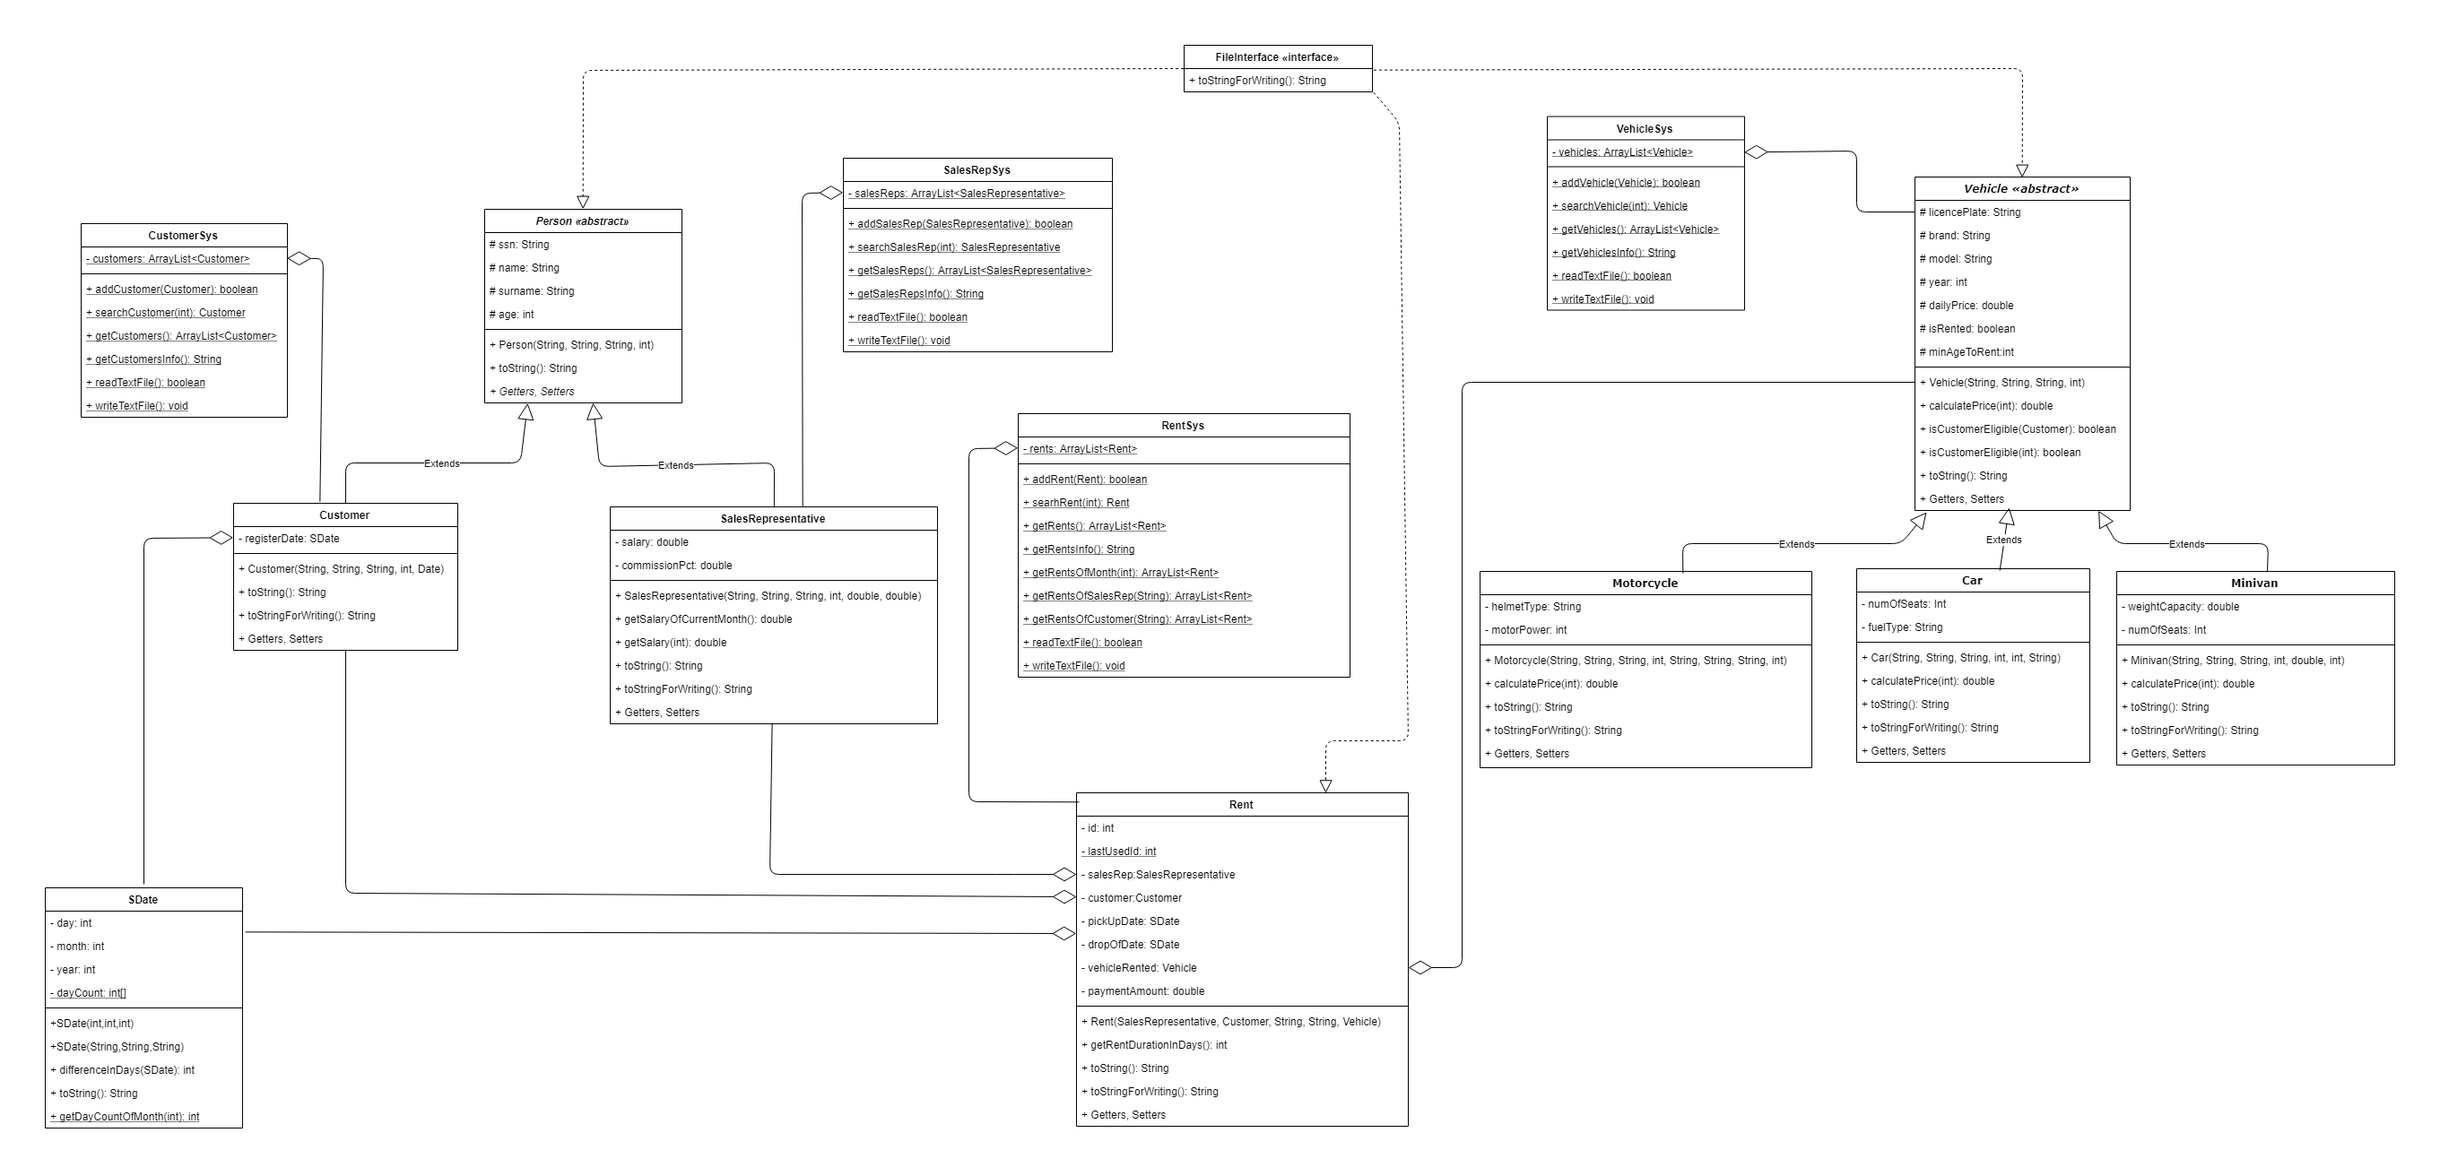
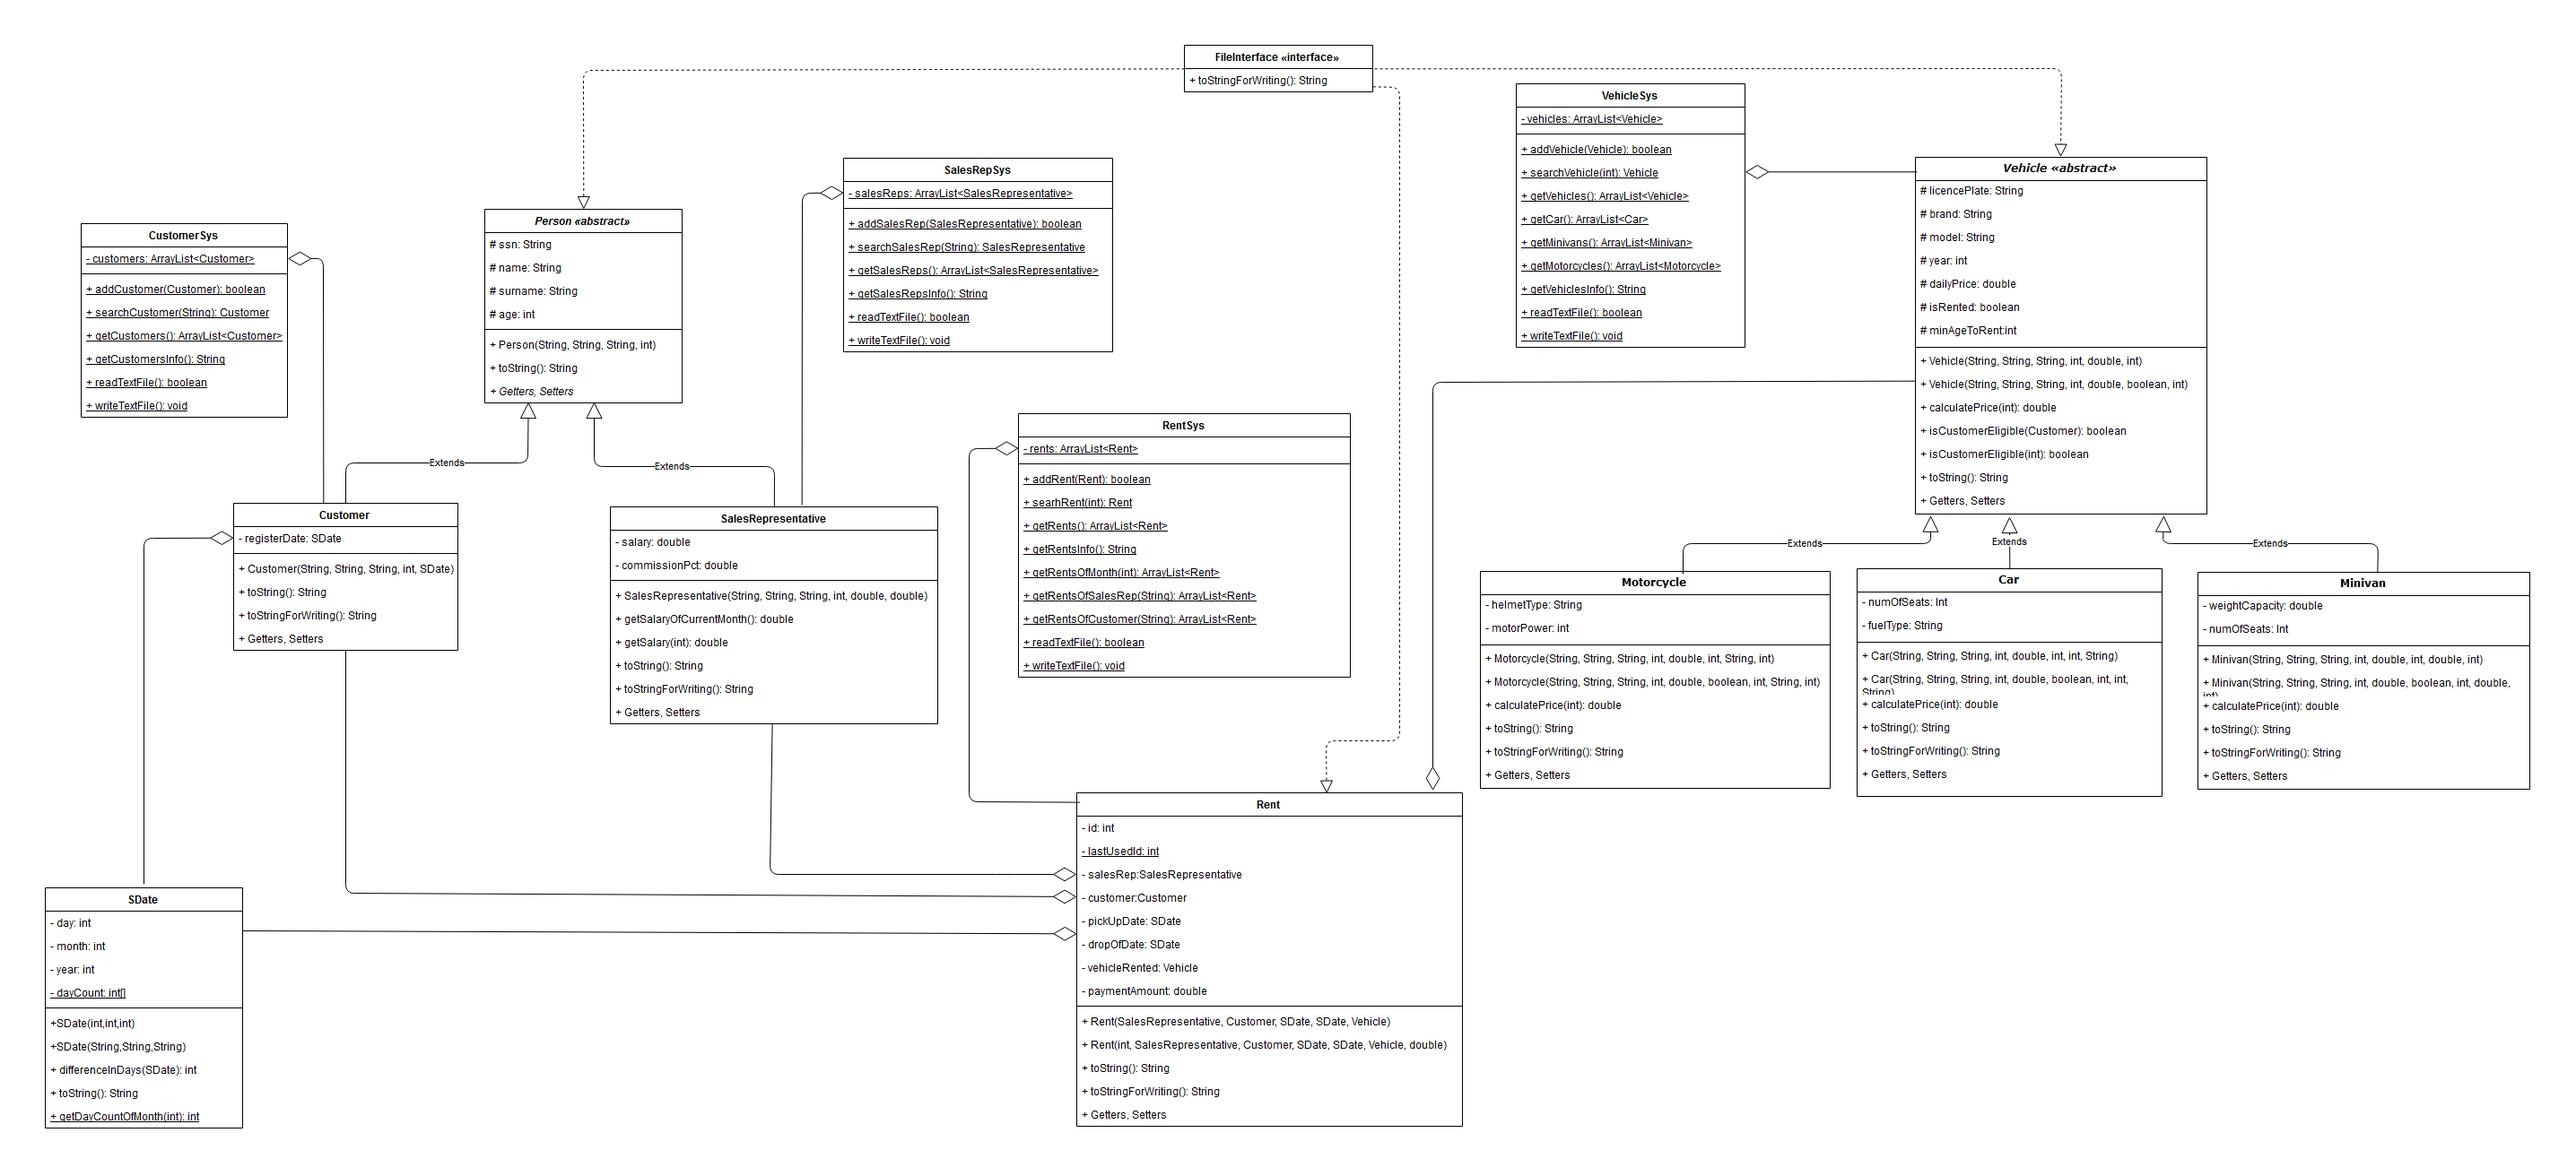
Organized Outputs + Updated Diagram
+ Minor refactorings.
+ Testing.

diff --git a/src/Rent.java b/src/Rent.java
@@ -14,7 +14,7 @@ public class Rent implements FileInterface{
     private SalesRepresentative salesRep;
     private Customer customer;
     private SDate pickUpDate,
-            dropOfDate;
+            dropOffDate;
     private Vehicle vehicleRented;
     private double paymentAmount;
 
@@ -23,24 +23,24 @@ public class Rent implements FileInterface{
         this.salesRep = salesRep;
         this.customer = customer;
         this.pickUpDate = pickUpDate;
-        this.dropOfDate = dropOfDate;
+        this.dropOffDate = dropOfDate;
         this.vehicleRented = vehicleRented;
         this.paymentAmount = vehicleRented.calculatePrice(getRentDurationInDays());
     }
     
-    public Rent(int id, SalesRepresentative salesRep, Customer customer, SDate pickUpDate, SDate dropOfDate, Vehicle vehicleRented, double paymentAmount) {
+    public Rent(int id, SalesRepresentative salesRep, Customer customer, SDate pickUpDate, SDate dropOffDate, Vehicle vehicleRented, double paymentAmount) {
         this.id = id;
         this.salesRep = salesRep;
         this.customer = customer;
         this.pickUpDate = pickUpDate;
-        this.dropOfDate = dropOfDate;
+        this.dropOffDate = dropOffDate;
         this.vehicleRented = vehicleRented;
         this.paymentAmount = paymentAmount;
     }
     
     public int getRentDurationInDays() 
     {
-        return dropOfDate.differenceInDays(pickUpDate);
+        return dropOffDate.differenceInDays(pickUpDate);
     }
 
     public int getId() {
@@ -60,7 +60,7 @@ public class Rent implements FileInterface{
     }
 
     public SDate getDropOfDate() {
-        return dropOfDate;
+        return dropOffDate;
     }
 
     public Vehicle getVehicleRented() {
@@ -73,10 +73,10 @@ public class Rent implements FileInterface{
 
     @Override
     public String toString() {
-        return "Rent{" + "id=" + id + ", salesRep=" + salesRep + ", customer=" + customer + ", pickUpDate=" + pickUpDate + ", dropOfDate=" + dropOfDate + ", vehicleRented=" + vehicleRented + ", paymentAmount=" + paymentAmount + '}';
+        return "\n|---- RENT " + id + " ----|\nRent ID: " + id + "\nPick-up Date: " + pickUpDate + "\nDrop-off Date: " + dropOffDate + "\nPayment Amount: " + paymentAmount + " TL\n" + salesRep + customer + vehicleRented + "\n";
     }
     public String toStringForWriting()
     {
-        return id+","+salesRep.getSsn()+","+customer.getSsn()+","+pickUpDate.toString()+","+dropOfDate.toString()+","+vehicleRented.getLicencePlate()+","+paymentAmount;
+        return id+","+salesRep.getSsn()+","+customer.getSsn()+","+pickUpDate.toString()+","+dropOffDate.toString()+","+vehicleRented.getLicencePlate()+","+paymentAmount;
     }
 }

diff --git a/src/deneme.java b/src/deneme.java
@@ -14,12 +14,30 @@ public class deneme {
      * @param args the command line arguments
      */
     public static void main(String[] args) {
-        if(VehicleSys.readTextFile())
-            System.out.println("MUAZZAM");
+        if (VehicleSys.readTextFile()) {
+            System.out.println("MUaZZaM");
+        }
         
-        System.out.println(VehicleSys.getVehiclesInfo());        
-        VehicleSys.addVehicle(new Car("34 AK 354","Mini","CooperS",2013,75,false,18,4,"Gas"));
+        Car car = new Car("34 BEG 615", "Mini", "CooperS", 2013, 75, false, 18, 4, "Gas");
+/*
+        System.out.println(VehicleSys.getVehiclesInfo());
+        VehicleSys.addVehicle(car);
         VehicleSys.writeTextFile();
+  */      
+        SDate registerDate = new SDate("07", "07", "2007");
+        SDate pickUpDate = new SDate("07", "05", "2017");
+        SDate dropOffDate = new SDate("08", "06", "2018");
+        SalesRepresentative salesGuy = new SalesRepresentative("354", "Bersin", "Karaisik", 5, 1500, 0.3);
+        Customer custGuy = new Customer("5", "Sinber", "Isikkara", 16, registerDate);
+        RentSys.addRent(new Rent(105, salesGuy, custGuy, pickUpDate, dropOffDate, car, 1500));
+        
+        SDate registerDate2 = new SDate("07", "07", "2007");
+        SDate pickUpDate2 = new SDate("07", "05", "2017");
+        SDate dropOffDate2 = new SDate("08", "06", "2018");
+        SalesRepresentative salesGuy2 = new SalesRepresentative("354", "Bersin", "Karaisik", 5, 1500, 0.3);
+        Customer custGuy2 = new Customer("5", "Sinber", "Isikkara", 16, registerDate);
+        RentSys.addRent(new Rent(106, salesGuy2, custGuy2, pickUpDate2, dropOffDate2, car, 1500));
+        System.out.println(RentSys.getRents().toString());
     }
-    
+
 }

diff --git a/src/Vehicle.java b/src/Vehicle.java
@@ -69,7 +69,7 @@ public abstract class Vehicle implements FileInterface{
         return dailyPrice;
     }
 
-    public boolean isIsRented() {
+    public boolean isRented() {
         return isRented;
     }
 
@@ -96,7 +96,7 @@ public abstract class Vehicle implements FileInterface{
     @Override
     public String toString() {
         return "Licence Plate: " + licencePlate + "\nModel: " + model + "\nYear: " + year
-                + "\nDaily Price: " + dailyPrice + "\nisRented" + isRented
+                + "\nDaily Price: " + dailyPrice + "\nIs Rented: " + isRented
                 + "\nMinimum age to rent: " + minAgeToRent + "\n";
     }
 }

diff --git a/src/SalesRepresentative.java b/src/SalesRepresentative.java
@@ -58,7 +58,7 @@ public class SalesRepresentative extends Person{
 
     @Override
     public String toString() {
-        return super.toString() + "SalesRepresentative{" + "baseSalary=" + baseSalary + ", commisionPercentage=" + commisionPercentage + '}';
+        return "\n--Sales Representative--\n" + super.toString() + "\nBase Salary: " + baseSalary + "\nCommision Percentage: " + commisionPercentage + "\n";
     }
     public String toStringForWriting()
     {

diff --git a/src/Minivan.java b/src/Minivan.java
@@ -52,7 +52,7 @@ public class Minivan extends Vehicle{
 
     @Override
     public String toString() {
-        return "--Minivan--\n" + super.toString() + "# of seats: " + numOfSeats + "\nWeight capacity: " + weightCapacity + "\n";
+        return "\n--Minivan--\n" + super.toString() + "# of seats: " + numOfSeats + "\nWeight capacity: " + weightCapacity + "\n";
     }
     public String toStringForWriting()
     {

diff --git a/src/Motorcycle.java b/src/Motorcycle.java
@@ -53,7 +53,7 @@ public class Motorcycle extends Vehicle{
 
     @Override
     public String toString() {
-        return "--Motorcycle--\n" + super.toString() + "Helmet type: " + helmetType + "\nMotor power: " + motorPower + "\n";
+        return "\n--Motorcycle--\n" + super.toString() + "Helmet type: " + helmetType + "\nMotor power: " + motorPower + "\n";
     }
     
     public String toStringForWriting()

diff --git a/src/Car.java b/src/Car.java
@@ -52,7 +52,7 @@ public class Car extends Vehicle{
 
     @Override
     public String toString() {
-        return "--Car--\n" + super.toString() + "# of seats: " + numOfSeats + "\nFuel type: " + fuelType + "\n";
+        return "\n--Car--\n" + super.toString() + "# of seats: " + numOfSeats + "\nFuel type: " + fuelType + "\n";
     }
     public String toStringForWriting()
     {

diff --git a/src/Person.java b/src/Person.java
@@ -55,7 +55,7 @@ public abstract class Person implements FileInterface{
 
     @Override
     public String toString() {
-        return "Person{" + "ssn=" + ssn + ", name=" + name + ", surname=" + surname + ", age=" + age + '}';
+        return "SSN: " + ssn + "\nName: " + name + "\nSurname: " + surname + "\nAge: " + age;
     }
     
     

diff --git a/src/Customer.java b/src/Customer.java
@@ -27,7 +27,7 @@ public class Customer extends Person{
 
     @Override
     public String toString() {
-        return super.toString() + "Customer{" + "registerDate=" + registerDate + '}';
+        return "\n--Customer--\n" + super.toString() + "\nRegister Date: " + registerDate + "\n";
     }
     
     public String toStringForWriting()

diff --git a/src/CustomerSys.java b/src/CustomerSys.java
@@ -37,7 +37,7 @@ public class CustomerSys {
         return null;
     }
     
-    public static ArrayList<Customer> getSalesReps()
+    public static ArrayList<Customer> getCustomers()
     {
         return customers;
     }
